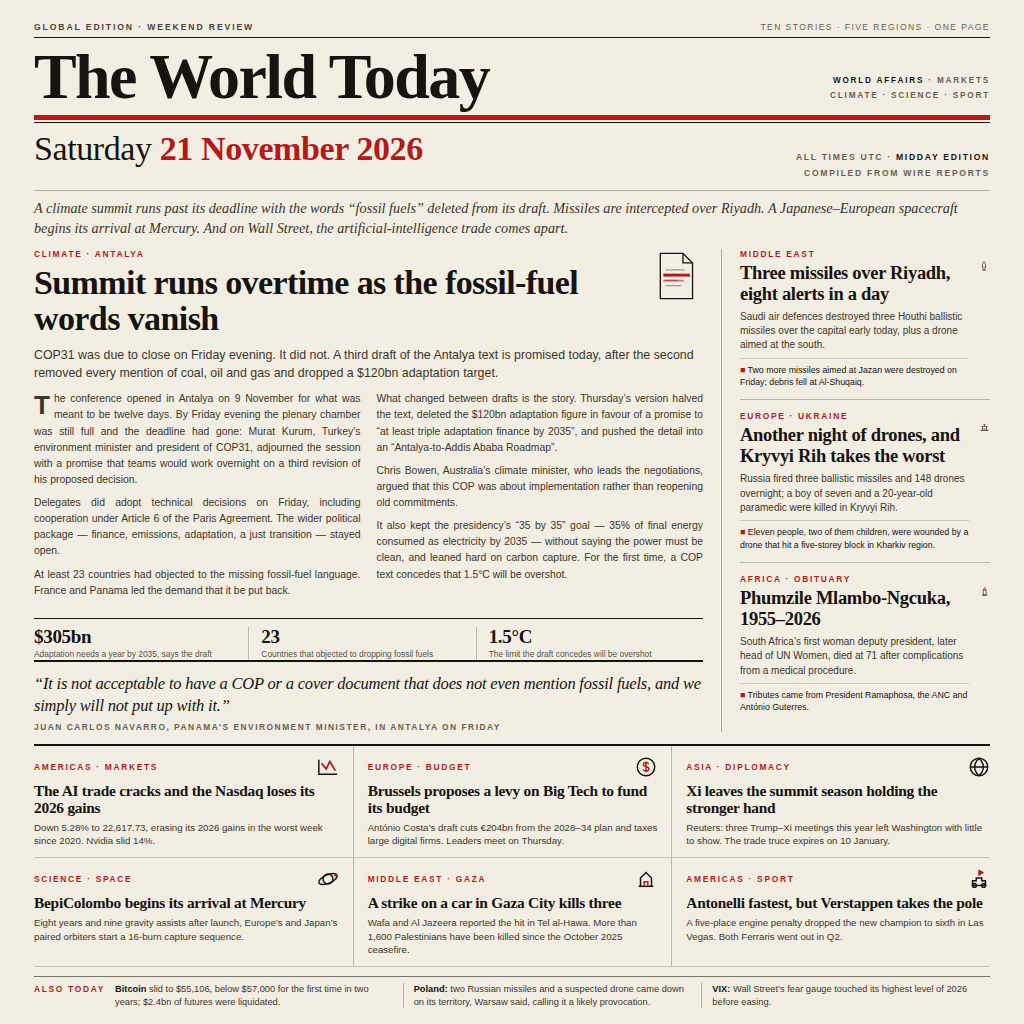
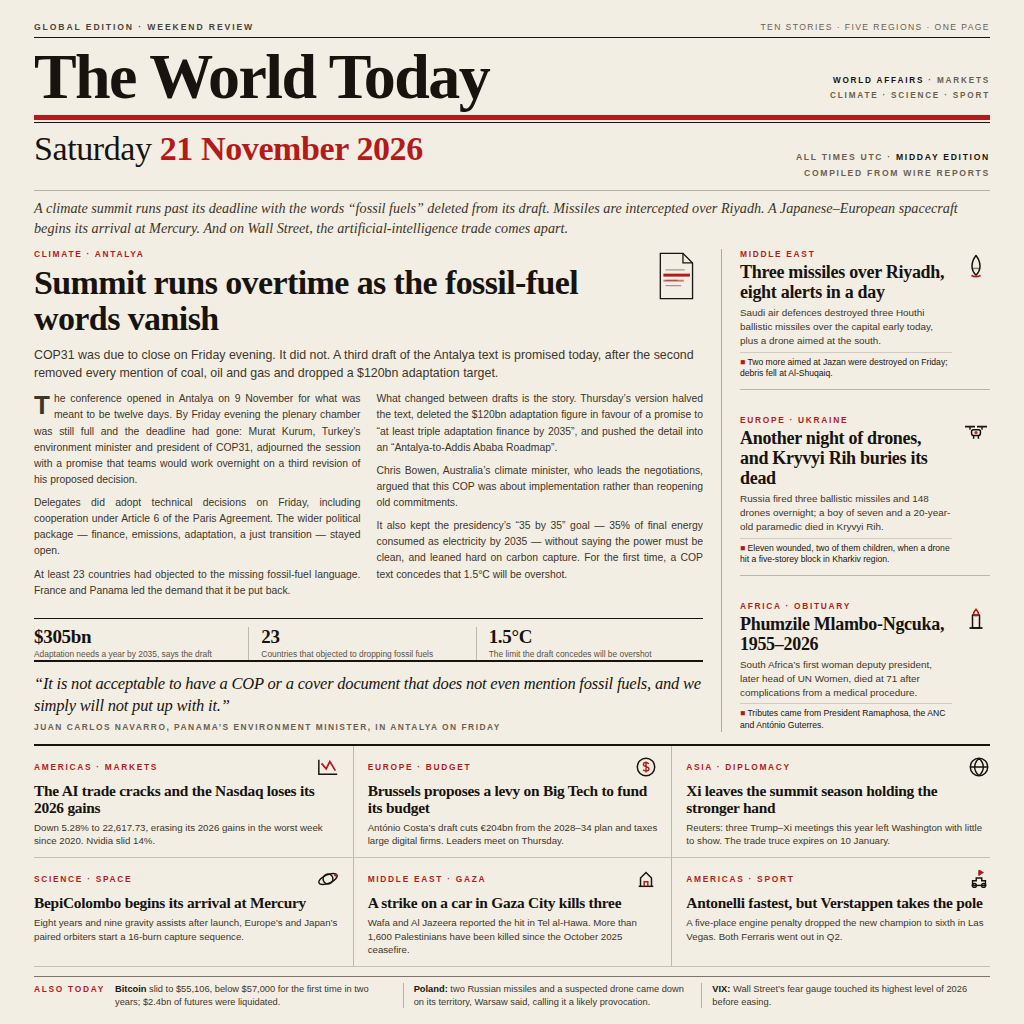
Redraw the Ukraine pictogram, tabulate the sidebar and re-verify the lead
Sidebar pictograms were ambiguous at final size; replaced the Ukraine glyph
with a drone, tightened the column rhythm so three items fill the well, and
fact-checked the 35-by-35 wording plus the 05bn adaptation figure.

Changed region(s): [[0.7188, 0.25, 0.9688, 0.7188]]

diff --git a/poster.html b/poster.html
@@ -88,17 +88,17 @@
     color:#6a5f50; font-weight:700;
   }
 
-  .side { flex:0 0 268px; padding-left:18px; display:flex; flex-direction:column; }
-  .item { padding-bottom:11px; margin-bottom:11px; border-bottom:1px solid rgba(23,19,14,.26); }
+  .side { flex:0 0 268px; padding-left:18px; display:flex; flex-direction:column; justify-content:space-between; }
+  .item { padding-bottom:9px; margin-bottom:9px; border-bottom:1px solid rgba(23,19,14,.26); }
   .item:last-child { border-bottom:0; margin-bottom:0; padding-bottom:0; }
   .item .row { display:flex; gap:10px; align-items:flex-start; }
   .item .row > div:first-child { flex:1 1 auto; min-width:0; }
-  .item .row > svg { margin-top:3px; }
-  .item h3 { font-size:18.5px; line-height:1.13; margin:4px 0 5px; letter-spacing:-.3px; }
-  .item p { font-size:10px; line-height:1.44; }
+  .item .row > svg { flex:0 0 auto; margin-top:3px; }
+  .item h3 { font-size:18px; line-height:1.12; margin:3px 0 4px; letter-spacing:-.3px; }
+  .item p { font-size:9.9px; line-height:1.4; }
   .item .fact {
-    font-family:Helvetica,Arial,sans-serif; font-size:8.8px; line-height:1.4;
-    margin-top:5px; padding-top:5px; border-top:1px solid rgba(23,19,14,.16);
+    font-family:Helvetica,Arial,sans-serif; font-size:8.6px; line-height:1.35;
+    margin-top:4px; padding-top:4px; border-top:1px solid rgba(23,19,14,.16);
   }
   .item .fact b { color:#b31b1b; }
 
@@ -209,7 +209,7 @@
             <div class="kicker">Middle East</div>
             <h3>Three missiles over Riyadh, eight alerts in a day</h3>
             <p>Saudi air defences destroyed three Houthi ballistic missiles over the capital early today, plus a drone aimed at the south.</p>
-            <div class="fact"><b>&#9632;</b> Two more missiles aimed at Jazan were destroyed on Friday; debris fell at Al-Shuqaiq.</div>
+            <div class="fact"><b>&#9632;</b> Two more aimed at Jazan were destroyed on Friday; debris fell at Al-Shuqaiq.</div>
           </div>
           <svg width="28" height="28" viewBox="0 0 28 28" fill="none" stroke="#17130e" stroke-width="1.5" stroke-linejoin="round">
             <path d="M14 3.5c2.6 3.4 4 7 4 10.4 0 3.5-1.4 6.6-4 9.1-2.6-2.5-4-5.6-4-9.1C10 10.5 11.4 6.9 14 3.5z"/>
@@ -223,16 +223,16 @@
         <div class="row">
           <div>
             <div class="kicker">Europe &middot; Ukraine</div>
-            <h3>Another night of drones, and Kryvyi Rih takes the worst</h3>
-            <p>Russia fired three ballistic missiles and 148 drones overnight; a boy of seven and a 20-year-old paramedic were killed in Kryvyi Rih.</p>
-            <div class="fact"><b>&#9632;</b> Eleven people, two of them children, were wounded by a drone that hit a five-storey block in Kharkiv region.</div>
+            <h3>Another night of drones, and Kryvyi Rih buries its dead</h3>
+            <p>Russia fired three ballistic missiles and 148 drones overnight; a boy of seven and a 20-year-old paramedic died in Kryvyi Rih.</p>
+            <div class="fact"><b>&#9632;</b> Eleven wounded, two of them children, when a drone hit a five-storey block in Kharkiv region.</div>
           </div>
           <svg width="28" height="28" viewBox="0 0 28 28" fill="none" stroke="#17130e" stroke-width="1.5" stroke-linejoin="round">
-            <path d="M6 10h16M9 10v7h10v-7"/>
-            <path d="M4 20h20" stroke-width="1.8"/>
-            <path d="M14 10V5"/>
-            <path d="M11 5h6" stroke="#b31b1b" stroke-width="1.7"/>
-            <path d="M7 17v3M21 17v3" stroke-opacity=".45"/>
+            <path d="M3 8.6h10M15 8.6h10" stroke-width="1.7"/>
+            <path d="M8 8.6v3.2M20 8.6v3.2" stroke-width="1.4"/>
+            <rect x="9.6" y="11.8" width="8.8" height="5.6" rx="1.8"/>
+            <path d="M11.6 17.4v3.4M16.4 17.4v3.4" stroke-width="1.5"/>
+            <circle cx="14" cy="14.6" r="1.5" fill="#b31b1b" stroke="none"/>
           </svg>
         </div>
       </div>
